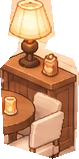
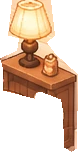
Phase 2 fixes: split corner table into four chairs, trim lamp cabinet

diff --git a/src/data/layout.js b/src/data/layout.js
@@ -16,9 +16,11 @@ export const PIECES = [
   {'key': 'chair_2_sw', 'x': 690, 'y': 538, 'left': 665, 'top': 494, 'w': 37, 'h': 47},
   {'key': 'chair_2_nw', 'x': 690, 'y': 604, 'left': 650, 'top': 528, 'w': 63, 'h': 80},
   {'key': 'table_3', 'x': 908, 'y': 575, 'left': 861, 'top': 469, 'w': 94, 'h': 109},
-  {'key': 'chair_3_se', 'x': 862, 'y': 589, 'left': 829, 'top': 481, 'w': 61, 'h': 111},
-  {'key': 'chair_3_sw', 'x': 950, 'y': 588, 'left': 923, 'top': 493, 'w': 60, 'h': 98},
-  {'key': 'lamp_table_r', 'x': 955, 'y': 550, 'left': 918, 'top': 402, 'w': 79, 'h': 159},
+  {'key': 'chair_3_se', 'x': 850, 'y': 545, 'left': 828, 'top': 481, 'w': 39, 'h': 41},
+  {'key': 'chair_3_ne', 'x': 862, 'y': 589, 'left': 828, 'top': 512, 'w': 64, 'h': 79},
+  {'key': 'chair_3_sw', 'x': 965, 'y': 540, 'left': 950, 'top': 493, 'w': 32, 'h': 24},
+  {'key': 'chair_3_nw', 'x': 950, 'y': 588, 'left': 922, 'top': 512, 'w': 62, 'h': 78},
+  {'key': 'lamp_table_r', 'x': 955, 'y': 550, 'left': 918, 'top': 402, 'w': 78, 'h': 152},
   {'key': 'counter_l', 'x': 646, 'y': 432, 'left': 610, 'top': 313, 'w': 73, 'h': 132},
   {'key': 'display_case', 'x': 738, 'y': 478, 'left': 676, 'top': 340, 'w': 143, 'h': 164},
   {'key': 'counter_r', 'x': 858, 'y': 485, 'left': 796, 'top': 338, 'w': 124, 'h': 163},

diff --git a/tools/cut_pieces.py b/tools/cut_pieces.py
@@ -36,11 +36,13 @@ PIECES = {
     'chair_2_se':   dict(anchor=(588, 594), poly=[(555,510),(577,499),(588,502),(591,531),(616,558),(616,568),(612,583),(605,584),(592,596),(583,596),(582,575),(566,584),(558,581),(560,540),(555,535)]),
     'chair_2_sw':   dict(anchor=(690, 538), poly=[(665,497),(671,494),(699,503),(701,534),(688,540),(678,531),(666,518)]),
     'chair_2_nw':   dict(anchor=(690, 604), poly=[(679,539),(710,528),(712,540),(709,593),(704,597),(684,607),(675,607),(673,592),(657,596),(650,592),(650,562),(658,557),(679,553)]),
-    # corner table (two chairs) and the side cabinet with its lamp
+    # corner table (four chairs) and the side cabinet with its lamp
     'table_3':      dict(anchor=(908, 575), poly=[(894,469),(921,470),(925,492),(945,498),(954,511),(950,527),(931,536),(916,538),(916,557),(929,562),(929,573),(907,577),(888,572),(889,562),(901,557),(901,538),(875,533),(862,523),(861,509),(874,495),(892,492)]),
-    'chair_3_se':   dict(anchor=(862, 589), poly=[(829,492),(855,481),(866,484),(867,510),(889,540),(889,578),(882,581),(866,591),(858,591),(858,570),(840,579),(831,577),(829,520)]),
-    'chair_3_sw':   dict(anchor=(950, 588), poly=[(952,496),(961,493),(979,500),(982,514),(978,545),(977,570),(970,572),(951,590),(946,588),(945,571),(930,573),(924,570),(923,545),(940,537),(951,520)]),
-    'lamp_table_r': dict(anchor=(955, 550), poly=[(930,402),(968,402),(972,437),(965,442),(962,450),(990,460),(996,475),(993,552),(970,560),(922,545),(918,470),(935,452),(937,440),(926,437)]),
+    'chair_3_se':   dict(anchor=(850, 545), poly=[(828,493),(855,481),(865,484),(866,512),(864,521),(830,513)]),
+    'chair_3_ne':   dict(anchor=(862, 589), poly=[(829,512),(863,519),(866,540),(889,543),(891,560),(889,580),(880,580),(879,566),(866,566),(865,590),(857,590),(856,568),(841,562),(840,579),(831,579),(828,540)]),
+    'chair_3_sw':   dict(anchor=(965, 540), poly=[(952,496),(959,493),(979,500),(981,514),(950,516),(951,505)]),
+    'chair_3_nw':   dict(anchor=(950, 588), poly=[(948,514),(981,512),(983,544),(979,560),(978,579),(971,579),(970,566),(955,569),(954,589),(947,589),(946,569),(931,562),(930,580),(923,580),(922,546),(947,535)]),
+    'lamp_table_r': dict(anchor=(955, 550), poly=[(930,402),(968,402),(972,437),(964,444),(972,455),(995,476),(994,550),(989,553),(982,549),(981,513),(979,501),(958,493),(953,495),(952,500),(921,492),(921,470),(918,460),(935,452),(937,440),(926,437)]),
     # counter
     'counter_l':    dict(anchor=(646, 432), poly=[(610,350),(628,313),(672,313),(672,345),(682,372),(681,444),(612,420)]),
     'display_case': dict(anchor=(738, 478), poly=[(683,345),(710,340),(817,390),(818,420),(796,455),(795,503),(678,446),(676,418),(678,362)]),

diff --git a/CLAUDE.md b/CLAUDE.md
@@ -107,8 +107,8 @@ The current version uses one painted room image and hand-traced polygons for wal
 ### Phase 2: cut the furniture out of room.webp (done)
 - No empty-room image: `room.webp` stays the background, unchanged. Each piece of furniture is cut out of it into its own transparent PNG that sits pixel-for-pixel on top of the same furniture in the background, so it only shows as a separate layer when the witch is behind it
 - `tools/cut_pieces.py` does the cutting. Each piece has a hand-traced outline (`poly`), snug around the furniture in room pixels, used directly as the mask. No automatic edge detection (the cream chairs are too close to the floor colour). A thin strip of floor inside an outline is fine, because those pixels match the background
-- Output: `public/assets/furniture/<key>.png` (27 pieces) and the generated `src/data/layout.js` with `{ key, x, y, left, top, w, h }`. `x, y` is the anchor (floor contact point, used for depth), `left, top` is where the PNG's top-left corner sits in the room
-- Pieces: `armchair_l/r`, `coffee_table`, `lamp_floor`, `table_1/2/3`, chairs `chair_<table>_<facing>`, `counter_l`, `display_case`, `counter_r`, `lamp_table_r` (with its side cabinet), `planter_l/m/r`, `lamp_post_1/2/3`, `chalkboard`. Table 1 has four chairs (se, sw, ne, nw), table 2 has three (se, sw, nw) and table 3 has two (se, sw). The legacy `SEATS` assumed four per table, which is one cause of floating on chairs
+- Output: `public/assets/furniture/<key>.png` (29 pieces) and the generated `src/data/layout.js` with `{ key, x, y, left, top, w, h }`. `x, y` is the anchor (floor contact point, used for depth), `left, top` is where the PNG's top-left corner sits in the room
+- Pieces: `armchair_l/r`, `coffee_table`, `lamp_floor`, `table_1/2/3`, chairs `chair_<table>_<facing>`, `counter_l`, `display_case`, `counter_r`, `lamp_table_r` (with its side cabinet), `planter_l/m/r`, `lamp_post_1/2/3`, `chalkboard`. Tables 1 and 3 have four chairs (se, sw, ne, nw); table 2 has three (se, sw, nw). The legacy `SEATS` assumed four per table, so table 2's `ne` seat has no chair, which is one cause of floating on chairs
 - Plants on the counter and vases on tables are part of those pieces (there are no free-standing floor plants). Wall things she can never walk behind (bookshelves, pendant lamps, pictures, wall shelves) aren't cut
 - To re-cut a piece: edit its outline or anchor in `tools/cut_pieces.py`, then run `python3 tools/cut_pieces.py --check <dir>`. The check confirms every cut-out matches the background exactly and writes a contact sheet and an overview image
 
